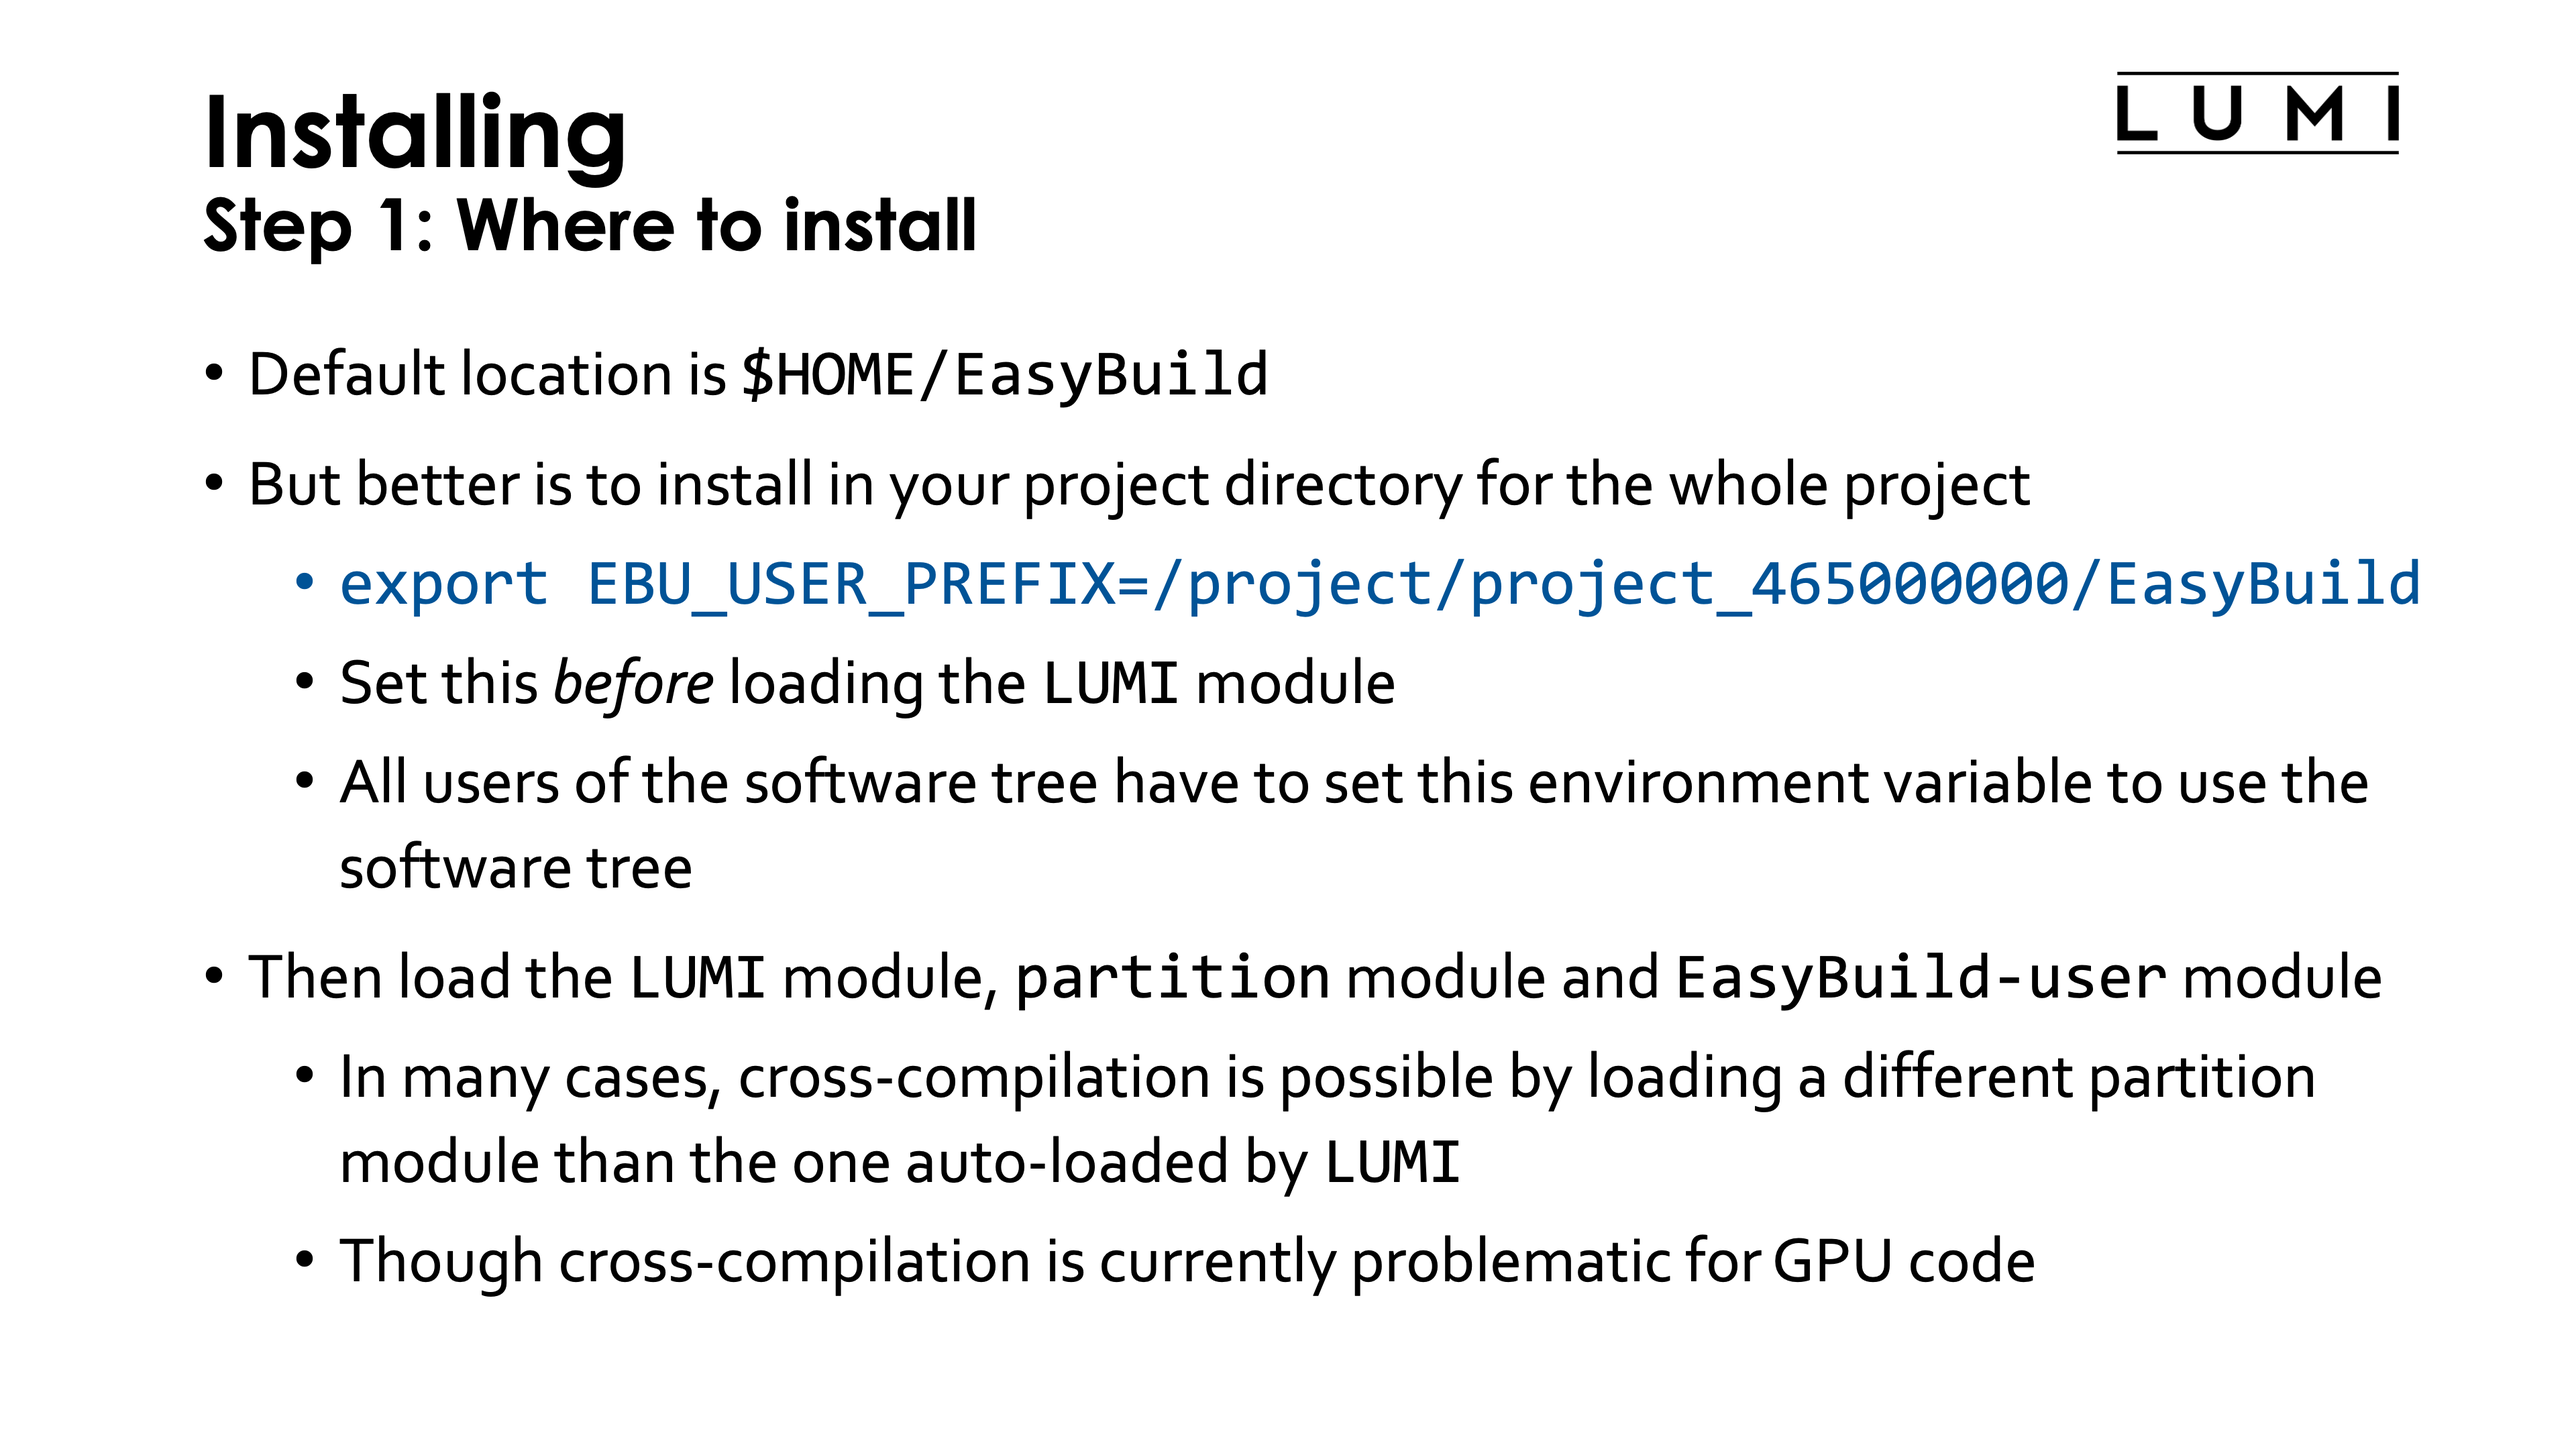
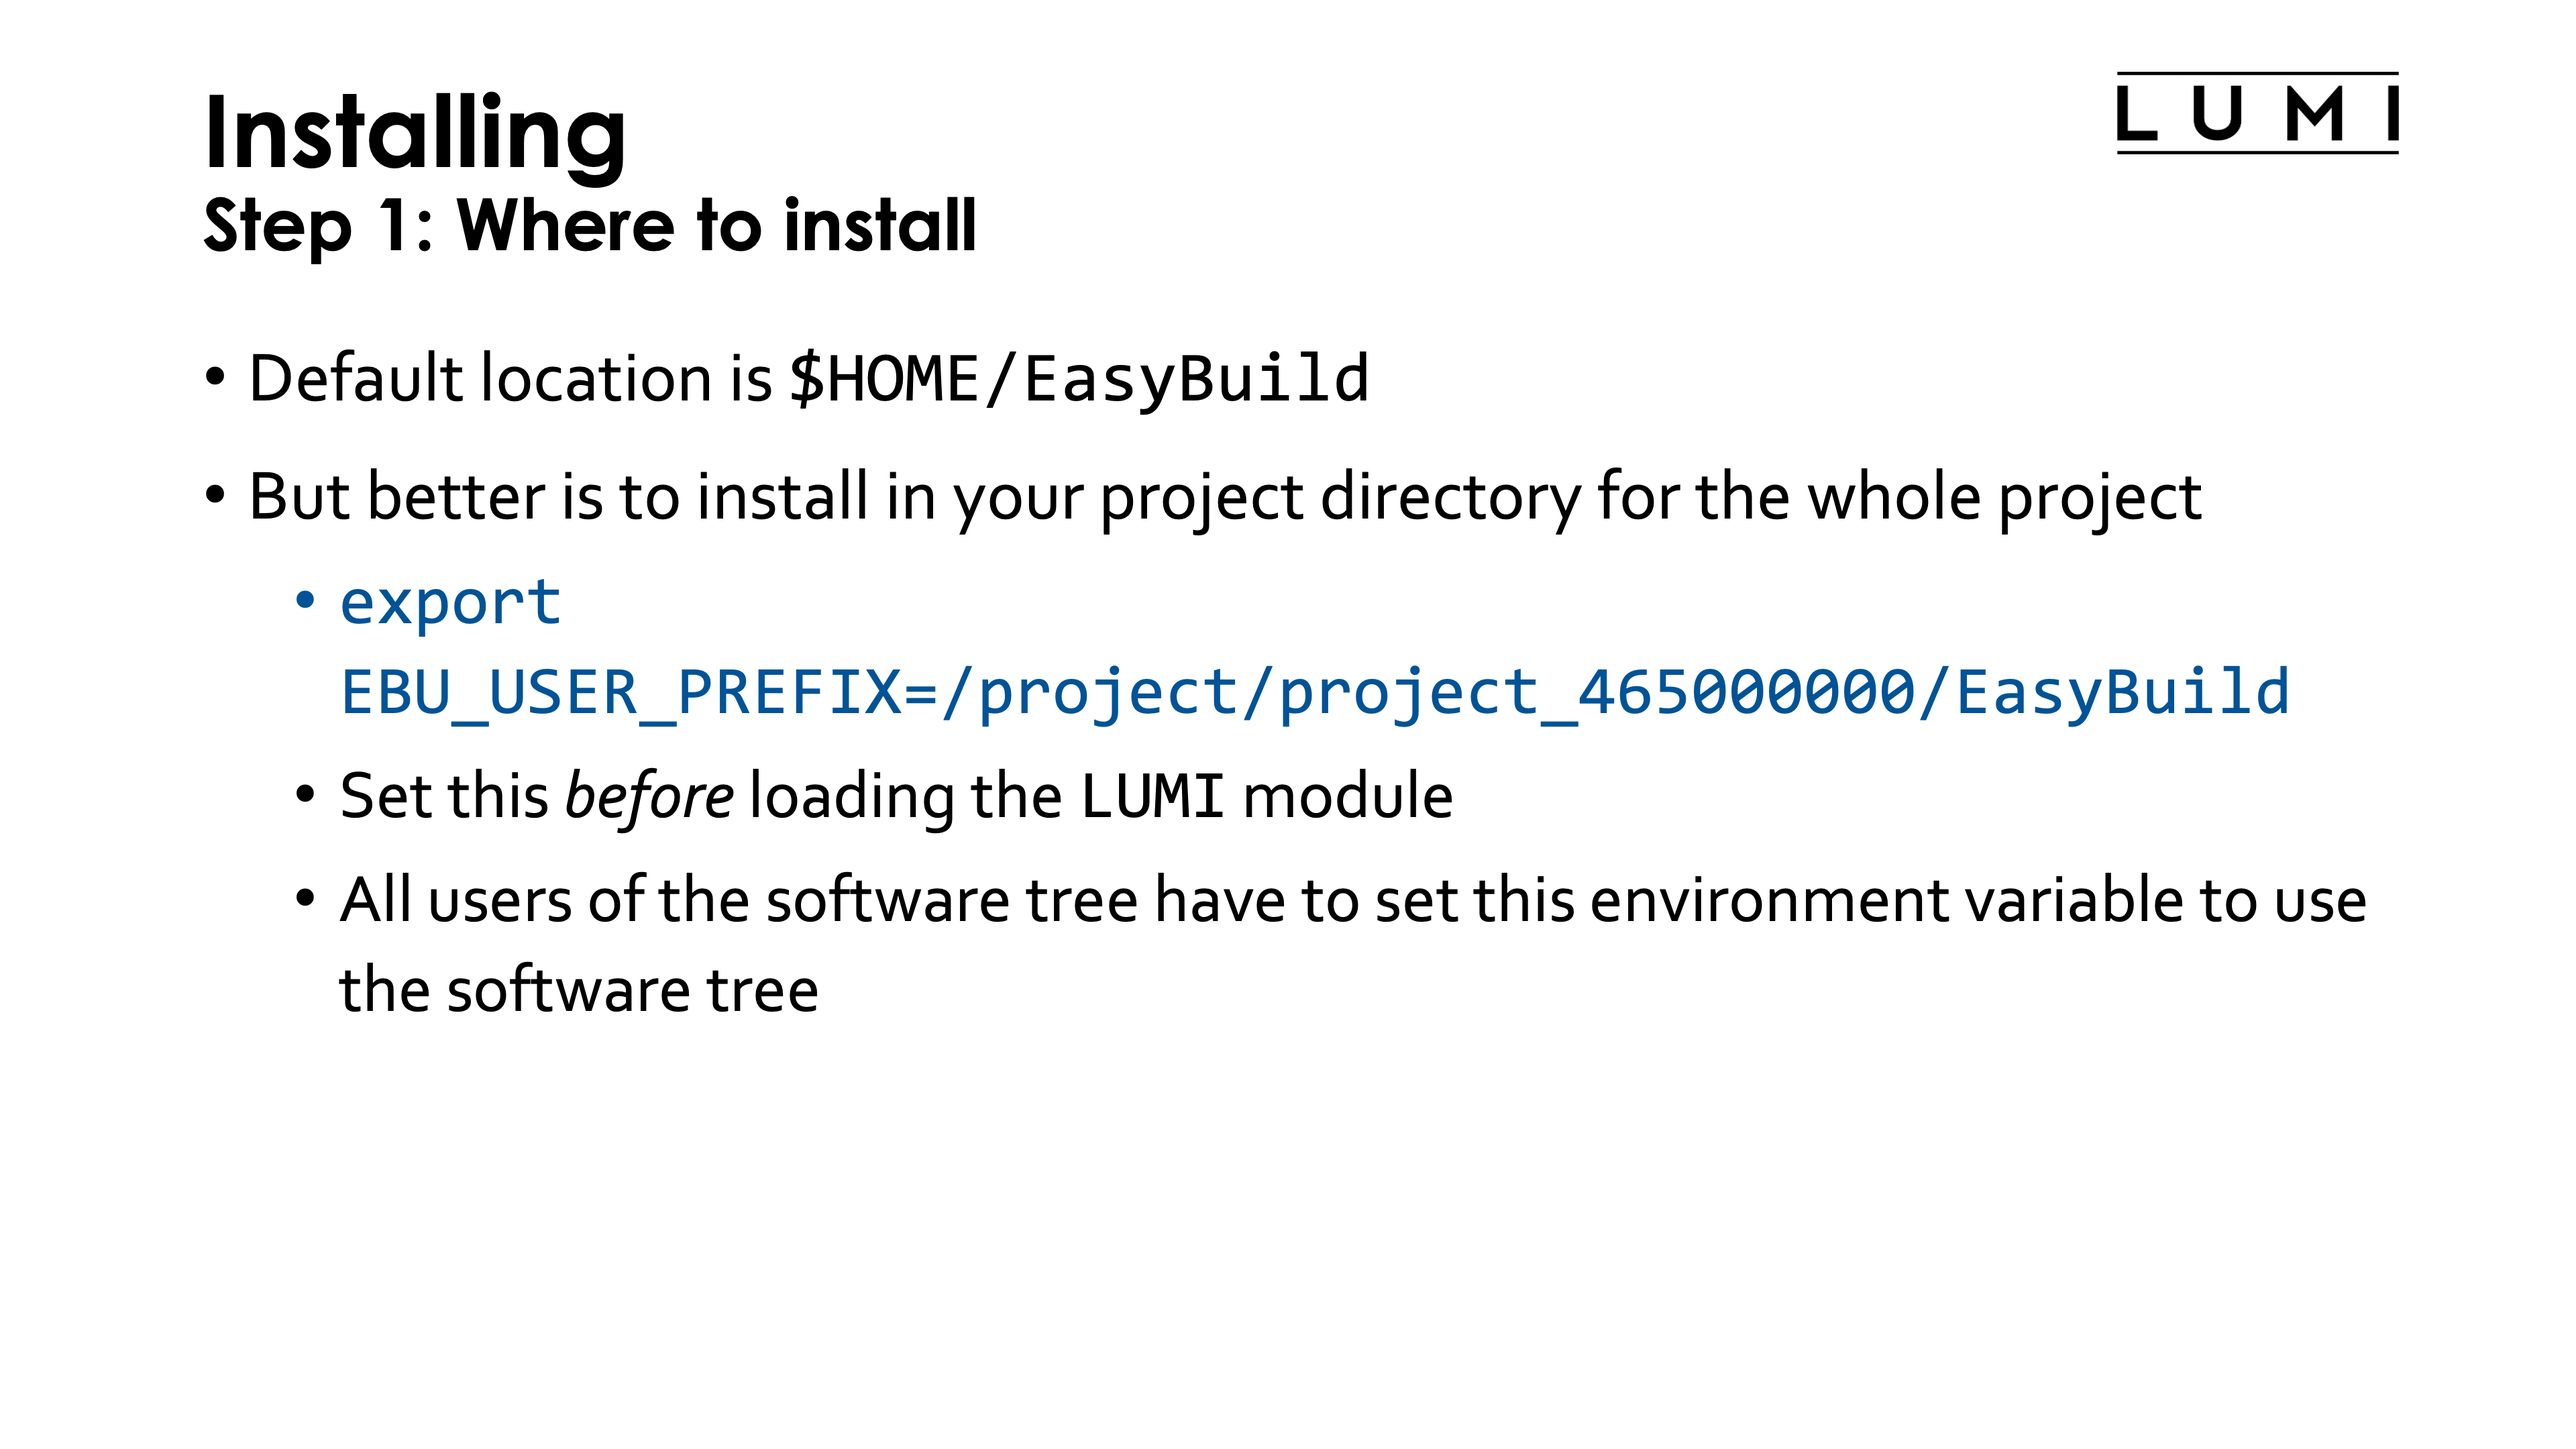
Updates to section 4 of the 1-day tutorial.

diff --git a/docs/1day-20230509/04_Software_stack.md b/docs/1day-20230509/04_Software_stack.md
@@ -102,7 +102,7 @@ We chose to go with **EasyBuild as our primary tool** for which we also do some 
 However, as we shall see, our EasyBuild installation is not your typical EasyBuild installation
 that you may be acustomed with from clusters at your home institution. **It uses toolchains
 specifically for the HPE Cray programming environment** so recipes need to be adapted. We do offer an
-**increasing library of Cray-specific installation recipes** though.
+**growing library of Cray-specific installation recipes** though.
 The whole setup of EasyBuild is done such that you can build on top of the central software stack
 and such that **your modules appear in your module view** without having to add directories by hand
 to environment variables etc. You only need to point to the place where you want to install software
@@ -127,11 +127,11 @@ community**.
 -   This is partly caused by the **distributed user management** as we do not even have the necessary
     information to determine if a particular user can use a particular license, so we must shift that 
     responsibility to people who have that information, which is often the PI of your project.
--   You also have to take into account that up to 20% of LUMI is reserved for industry use which makes 
+-   You also have to take into account that **up to 20% of LUMI is reserved for industry** use which makes 
     negotiations with software vendors rather difficult as they will want to push us onto the industrial
     rather than academic pricing as they have no guarantee that we will obey to the academic license
     restrictions. 
--   And lastly, **we don't have an infinite budget**. There was a questionaire send out to 
+-   And lastly, **we don't have an infinite budget**. There was a questionnaire send out to 
     some groups even before the support team was assembled and that contained a number of packages that
     by themselves would likely consume our whole software budget for a single package if I look at the 
     size of the company that produces the package and the potential size of their industrial market. 
@@ -173,7 +173,7 @@ high performance from the interconnect. For example,
     goal of a pre-exascale machine. But that implies that certain Linux daemons that your software may 
     expect to find are not present on the compute nodes. D-bus comes to mind.
 
-Also, the LUNI user support team is **too small to do all software installations** which is why we currently
+Also, the LUMI user support team is **too small to do all software installations** which is why we currently
 state in our policy that a LUMI user should be capable of installing their software themselves or have
 another support channel. We cannot install every single piece of often badly documented research-quality
 code that was never meant to be used by people who don't understand the code.
@@ -200,7 +200,7 @@ recent set of build tools etc** than the OS provides. We also take care of a few
 on the next slide that are present right after login on LUMI.
 
 Next we have the **stacks called "LUMI"**. Each one corresponds to a **particular release of the HPE Cray
-Programming Environment**. It is the stack in which we install software using the that programming environment
+Programming Environment**. It is the stack in which we install software using that programming environment
 and mostly EasyBuild. **The Cray Programming Environment modules are still used, but they are accessed through
 a replacement for the PrgEnv modules that is managed by EasyBuild**. We have **tuned versions for the 3 types
 of hardware in the regular LUMI system**: zen2 CPUs in the login nodes and large memory nodes, zen3 for the 
@@ -354,7 +354,7 @@ the moment.
     getting it to collaborate with the resource manager as it is installed on LUMI.
 -   The Intel-based toolchains have their problems also. At the moment, the Intel compilers with the
     AMD CPUs are a problematic cocktail. There have recently been performance and correctness problems 
-    with the MKL math library and also failures some versions of Intel MPI, 
+    with the MKL math library and also failures with some versions of Intel MPI, 
     and you need to be careful selecting compiler options and not use `-xHost`
     or the Intel compiler will simply optimize for a two decades old CPU.
 
@@ -363,7 +363,14 @@ Instead we make our **own EasyBuild build recipes** that we also make available 
 The EasyBuild configuration done by the EasyBuild-user module will find a copy of that repository
 on the system or in your own install directory. The latter is useful if you always want the very
 latest, before we deploy it on the system. 
-We're also **working on presenting a list of supported software in the documentation**.
+
+We also have the
+[LUMI Software Library](https://lumi-supercomputer.github.io/LUMI-EasyBuild-docs/)
+which documents all software for which we have EasyBuild recipes available. 
+This includes both the pre-installed software and the software for which we provide recipes in the
+[LUMI-EasyBuild-contrib GitHub repository](https://github.com/Lumi-supercomputer/LUMI-EasyBuild-contrib),
+and even instructions for some software that is not suitable for installation through EasyBuild or
+Spack, e.g., because it likes to write in its own directories while running.
 
 
 ### EasyBuild recipes - easyconfigs
@@ -375,7 +382,7 @@ We're also **working on presenting a list of supported software in the documenta
 EasyBuild uses a build recipe for each individual package, or better said, each individual module
 as it is possible to install more than one software package in the same module. That installation
 description relies on either a generic or a specific installation process provided by an easyblock.
-The build recipes are called easyconfig files or simply easyconfigs are are Python files with 
+The build recipes are called easyconfig files or simply easyconfigs and are Python files with 
 the extension `.eb`. 
 
 The typical steps in an installation process are:
@@ -477,7 +484,7 @@ Consider, e.g., the easyconfig file `GROMACS-2021.4-cpeCray-22.08-PLUMED-2.8.0-C
 3.  The next part, `cpeCray-22.08` is the name and version of the toolchain,
     specified by the `toolchain` parameter in the easyconfig. The version of the
     toolchain must always correspond to the version of the LUMI stack. So this is
-    and easyconfig for installation in `LUMI/22.08`.
+    an easyconfig for installation in `LUMI/22.08`.
 
     This part is not present for the SYSTEM toolchain
 
@@ -521,21 +528,11 @@ module system and EasyBuild will not find it when they need it. So a good choice
 something like 
 `export EBU_USER_PREFIX=/project/project_465000000/EasyBuild`. 
 You have to do this **before** loading the `LUMI` module as it is then already used to ensure that
-user modules are included in the module search path. You can do this in your `.bash_profile` or
+user modules are included in the module search path. You can do this in your `.profile` or
 `.bashrc`. 
 This variable is not only **used by EasyBuild-user** to know where to install software, but also 
 by the `LUMI` - or actually **the `partition` - module to find software** so all users in your project
 who want to use the software should set that variable.
-
-Once that environment variable is set, all you need to do to activate EasyBuild is to load
-the `LUMI` module, load a partition module if you want a different one from the default, and 
-then load the `EasyBuild-user` module. In fact, if you switch to a different `partition` 
-or `LUMI` module after loading `EasyBuild-user` EasyBuild will still be correctly reconfigured 
-for the new stack and new partition. 
-Cross-compilation which is installing software for a different partition than the one you're
-working on does not always work since there is so much software around with installation scripts
-that don't follow good practices, but when it works it is easy to do on LUMI by simply loading
-a different partition module than the one that is auto-loaded by the `LUMI` module.
 
 
 #### Step 2: Configure the environment
@@ -544,6 +541,25 @@ a different partition module than the one that is auto-loaded by the `LUMI` modu
   ![Installing: Configure the environment](img/LUMI-1day-20230509-04-software/Dia16.png){ loading=lazy }
 </figure>
 
+The next step is to configure your environment. First load the proper version of the LUMI
+stack for which you want to install software, and you may want to change to the proper
+partition also if you are cross-compiling.
+
+Once you have selected the software stack and partition, all you need to do to activate EasyBuild to install
+additional software is to load
+the `LUMI` module, load a partition module if you want a different one from the default, and 
+then load the `EasyBuild-user` module. In fact, if you switch to a different `partition` 
+or `LUMI` module after loading `EasyBuild-user` EasyBuild will still be correctly reconfigured 
+for the new stack and new partition. 
+
+Cross-compilation which is installing software for a different partition than the one you're
+working on does not always work since there is so much software around with installation scripts
+that don't follow good practices, but when it works it is easy to do on LUMI by simply loading
+a different partition module than the one that is auto-loaded by the `LUMI` module.
+
+**Note that the `EasyBuild-user` module is only needed for the installation process. For using
+the software that is installed that way it is sufficient to ensure that `EBU_USER_PREFIX` has
+the proper value before loading the `LUMI` module.**
 
 
 #### Step 3: Install the software.
@@ -560,15 +576,15 @@ At the moment we have to use `eb -S` or `eb --search` for that. So in our exampl
 eb --search GROMACS
 ```
 We now also have the [LUMI Software Library](https://lumi-supercomputer.github.io/LUMI-EasyBuild-docs/)
-which lists all software that we manage via EasyBuild and make available either preinstalled on
+which lists all software that we manage via EasyBuild and make available either pre-installed on
 the system or as an EasyBuild recipe for user installation.
 
 Now let's take the variant `GROMACS-2021.4-cpeCray-22.08-PLUMED-2.8.0-CPU.eb`. 
 This is GROMACS 2021.4 with the PLUMED 2.8.0 plugin, build with the Cray compilers
 from `LUMI/22.08`, and a build meant for CPU-only systems. The `-CPU` extension is not
-always added for CPU-only system, but in case of GROMACS we do expect that GPU builds for
-LUMI will become available early on in the deployment of LUMI-G so we've already added
-a so-called version suffix to distinguish between CPU and GPU versions.
+always added for CPU-only system, but in case of GROMACS there already is a GPU version
+for AMD GPUs in active development so even before LUMI-G was active we chose to ensure
+that we could distinguish between GPU and CPU-only versions.
 To install it, we first run 
 ```bash
 eb –r GROMACS-2021.4-cpeCray-22.08-PLUMED-2.8.0-CPU.eb –D
@@ -651,7 +667,7 @@ will tell you for which versions of VASP we already have build instructions, but
 to download the file that the EasyBuild recipe expects. Put it somewhere in a directory, and then from that
 directory run EasyBuild, for instance for VASP 6.3.0 with the GNU compilers:
 ```bash
-eb –r . VASP-6.3.0-cpeGNU-22.08.eb
+eb VASP-6.3.0-cpeGNU-22.08.eb –r . 
 ```
 
 ### More advanced work (2): Repositories
@@ -758,5 +774,5 @@ The site also contains a LUST-specific tutorial oriented towards Cray systems.
 
 There is also a later course developed by LUST for developers of EasyConfigs for LUMI
 that can be found on 
-[klust.github.io/easybuild-tutorial](https://klust.github.io/easybuild-tutorial).
+[lumi-supercomputer.github.io/easybuild-tutorial](https://lumi-supercomputer.github.io/easybuild-tutorial/).
 
